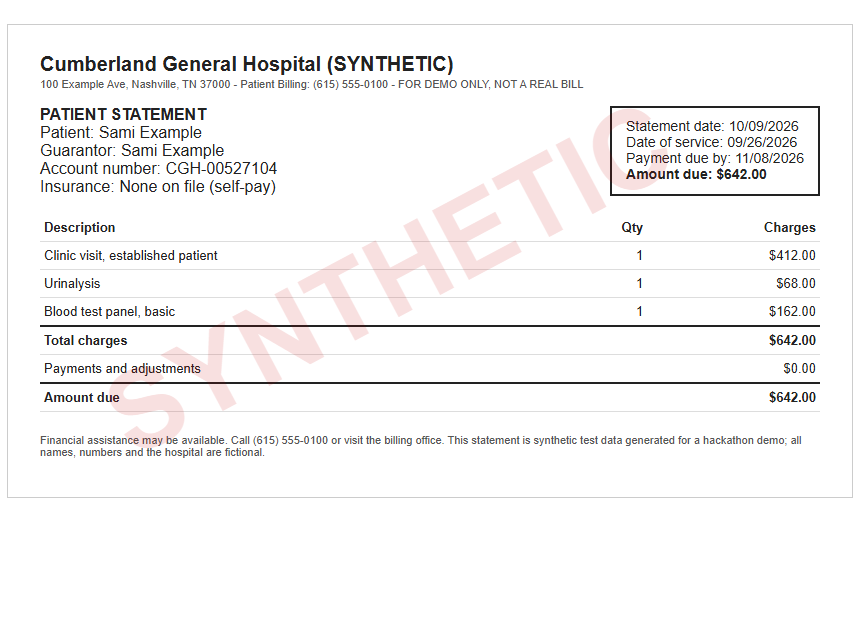
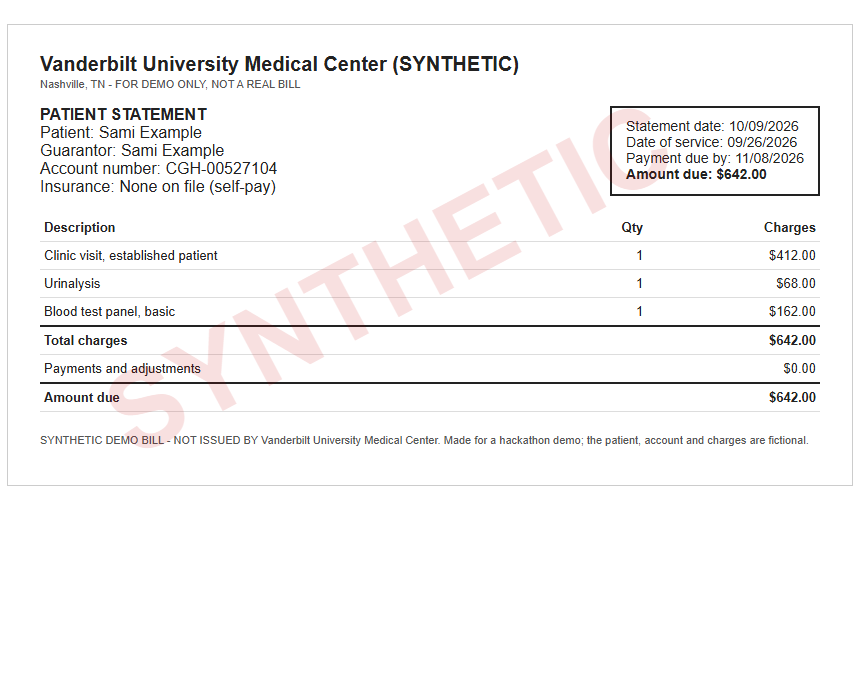
Real policies (plan v2 S3): synthetic bills 01-09 now name VUMC / Ascension Saint Thomas facilities with (SYNTHETIC), watermark and 'not issued by' footer; no address or phone; bill-02 QR -> ?hospital=vumc; PNGs and blur set re-rendered; demo bills VUMC

Changed region(s): [[0.0302, 0.0625, 0.9674, 0.7188]]

diff --git a/spikes/synthetic-bill/bill-02.html b/spikes/synthetic-bill/bill-02.html
@@ -21,8 +21,8 @@
 <body>
 <div class="page">
   <div class="wm">SYNTHETIC</div>
-  <h1>Cumberland General Hospital (SYNTHETIC)</h1>
-  <div class="small">100 Example Ave, Nashville, TN 37000 - Patient Billing: (615) 555-0100 - FOR DEMO ONLY, NOT A REAL BILL</div>
+  <h1>Vanderbilt University Medical Center (SYNTHETIC)</h1>
+  <div class="small">Nashville, TN - FOR DEMO ONLY, NOT A REAL BILL</div>
 
   <div class="row">
     <div>
@@ -52,13 +52,11 @@
 
   <div class="qr"><img id="qr" alt="QR code" width="120" height="120"><div class="small">Scan to check for financial assistance - SYNTHETIC demo</div></div>
 
-  <p class="small" style="margin-top:22px">Financial assistance may be available. Call (615) 555-0100 or visit the
-  billing office. This statement is synthetic test data generated for a hackathon demo; all names, numbers and
-  the hospital are fictional.</p>
+  <p class="small" style="margin-top:22px">SYNTHETIC DEMO BILL - NOT ISSUED BY Vanderbilt University Medical Center. Made for a hackathon demo; the patient, account and charges are fictional.</p>
 </div>
 <script src="../../app/static/vendor/qrcode-generator/qrcode.js"></script>
 <script>
-  var q = qrcode(0, 'M'); q.addData('http://207.211.181.174/?hospital=cumberland_synthetic'); q.make();
+  var q = qrcode(0, 'M'); q.addData('http://207.211.181.174/?hospital=vumc'); q.make();
   document.getElementById('qr').src = q.createDataURL(4, 2);
 </script>
 <script>

diff --git a/spikes/synthetic-bill/bill-05.html b/spikes/synthetic-bill/bill-05.html
@@ -20,8 +20,8 @@
 <body>
 <div class="page">
   <div class="wm">SYNTHETIC</div>
-  <h1>Cumberland General Hospital (SYNTHETIC)</h1>
-  <div class="small">100 Example Ave, Nashville, TN 37000 - Patient Billing: (615) 555-0100 - FOR DEMO ONLY, NOT A REAL BILL</div>
+  <h1>Vanderbilt University Medical Center (SYNTHETIC)</h1>
+  <div class="small">Nashville, TN - FOR DEMO ONLY, NOT A REAL BILL</div>
 
   <div class="row">
     <div>
@@ -49,9 +49,7 @@
     <tr class="total"><td>Amount due</td><td></td><td class="n">$1,206.00</td></tr>
   </table>
 
-  <p class="small" style="margin-top:22px">Financial assistance may be available. Call (615) 555-0100 or visit the
-  billing office. This statement is synthetic test data generated for a hackathon demo; all names, numbers and
-  the hospital are fictional.</p>
+  <p class="small" style="margin-top:22px">SYNTHETIC DEMO BILL - NOT ISSUED BY Vanderbilt University Medical Center. Made for a hackathon demo; the patient, account and charges are fictional.</p>
 </div>
 <script>
   var m = /blur=([0-9.]+)/.exec(location.hash);

diff --git a/spikes/synthetic-bill/bill-03.html b/spikes/synthetic-bill/bill-03.html
@@ -20,8 +20,8 @@
 <body>
 <div class="page">
   <div class="wm">SYNTHETIC</div>
-  <h1>Cumberland General Hospital (SYNTHETIC)</h1>
-  <div class="small">100 Example Ave, Nashville, TN 37000 - Patient Billing: (615) 555-0100 - FOR DEMO ONLY, NOT A REAL BILL</div>
+  <h1>Vanderbilt University Medical Center (SYNTHETIC)</h1>
+  <div class="small">Nashville, TN - FOR DEMO ONLY, NOT A REAL BILL</div>
 
   <div class="row">
     <div>
@@ -49,9 +49,7 @@
     <tr class="total"><td>Amount due</td><td></td><td class="n">$642.00</td></tr>
   </table>
 
-  <p class="small" style="margin-top:22px">Financial assistance may be available. Call (615) 555-0100 or visit the
-  billing office. This statement is synthetic test data generated for a hackathon demo; all names, numbers and
-  the hospital are fictional.</p>
+  <p class="small" style="margin-top:22px">SYNTHETIC DEMO BILL - NOT ISSUED BY Vanderbilt University Medical Center. Made for a hackathon demo; the patient, account and charges are fictional.</p>
 </div>
 <script>
   var m = /blur=([0-9.]+)/.exec(location.hash);

diff --git a/spikes/synthetic-bill/bill-04.html b/spikes/synthetic-bill/bill-04.html
@@ -20,8 +20,8 @@
 <body>
 <div class="page">
   <div class="wm">SYNTHETIC</div>
-  <h1>Cumberland General Hospital (SYNTHETIC)</h1>
-  <div class="small">100 Example Ave, Nashville, TN 37000 - Patient Billing: (615) 555-0100 - FOR DEMO ONLY, NOT A REAL BILL</div>
+  <h1>Vanderbilt Wilson County Hospital (SYNTHETIC)</h1>
+  <div class="small">Nashville, TN - FOR DEMO ONLY, NOT A REAL BILL</div>
 
   <div class="row">
     <div>
@@ -49,9 +49,7 @@
     <tr class="total"><td>Amount due</td><td></td><td class="n">$318.75</td></tr>
   </table>
 
-  <p class="small" style="margin-top:22px">Financial assistance may be available. Call (615) 555-0100 or visit the
-  billing office. This statement is synthetic test data generated for a hackathon demo; all names, numbers and
-  the hospital are fictional.</p>
+  <p class="small" style="margin-top:22px">SYNTHETIC DEMO BILL - NOT ISSUED BY Vanderbilt Wilson County Hospital. Made for a hackathon demo; the patient, account and charges are fictional.</p>
 </div>
 <script>
   var m = /blur=([0-9.]+)/.exec(location.hash);

diff --git a/spikes/synthetic-bill/bill-08.html b/spikes/synthetic-bill/bill-08.html
@@ -20,8 +20,8 @@
 <body>
 <div class="page">
   <div class="wm">SYNTHETIC</div>
-  <h1>Cumberland General Hospital (SYNTHETIC)</h1>
-  <div class="small">100 Example Ave, Nashville, TN 37000 - Patient Billing: (615) 555-0100 - FOR DEMO ONLY, NOT A REAL BILL</div>
+  <h1>Ascension Saint Thomas Rutherford (SYNTHETIC)</h1>
+  <div class="small">Nashville, TN - FOR DEMO ONLY, NOT A REAL BILL</div>
 
   <div class="row">
     <div>
@@ -49,9 +49,7 @@
     <tr class="total"><td>Amount due</td><td></td><td class="n">$349.00</td></tr>
   </table>
 
-  <p class="small" style="margin-top:22px">Financial assistance may be available. Call (615) 555-0100 or visit the
-  billing office. This statement is synthetic test data generated for a hackathon demo; all names, numbers and
-  the hospital are fictional.</p>
+  <p class="small" style="margin-top:22px">SYNTHETIC DEMO BILL - NOT ISSUED BY Ascension Saint Thomas Rutherford. Made for a hackathon demo; the patient, account and charges are fictional.</p>
 </div>
 <script>
   var m = /blur=([0-9.]+)/.exec(location.hash);

diff --git a/spikes/synthetic-bill/bill-06.html b/spikes/synthetic-bill/bill-06.html
@@ -20,8 +20,8 @@
 <body>
 <div class="page">
   <div class="wm">SYNTHETIC</div>
-  <h1>Cumberland General Hospital (SYNTHETIC)</h1>
-  <div class="small">100 Example Ave, Nashville, TN 37000 - Patient Billing: (615) 555-0100 - FOR DEMO ONLY, NOT A REAL BILL</div>
+  <h1>Ascension Saint Thomas Midtown (SYNTHETIC)</h1>
+  <div class="small">Nashville, TN - FOR DEMO ONLY, NOT A REAL BILL</div>
 
   <div class="row">
     <div>
@@ -49,9 +49,7 @@
     <tr class="total"><td>Amount due</td><td></td><td class="n">$791.50</td></tr>
   </table>
 
-  <p class="small" style="margin-top:22px">Financial assistance may be available. Call (615) 555-0100 or visit the
-  billing office. This statement is synthetic test data generated for a hackathon demo; all names, numbers and
-  the hospital are fictional.</p>
+  <p class="small" style="margin-top:22px">SYNTHETIC DEMO BILL - NOT ISSUED BY Ascension Saint Thomas Midtown. Made for a hackathon demo; the patient, account and charges are fictional.</p>
 </div>
 <script>
   var m = /blur=([0-9.]+)/.exec(location.hash);

diff --git a/spikes/synthetic-bill/bill-07.html b/spikes/synthetic-bill/bill-07.html
@@ -20,8 +20,8 @@
 <body>
 <div class="page">
   <div class="wm">SYNTHETIC</div>
-  <h1>Cumberland General Hospital (SYNTHETIC)</h1>
-  <div class="small">100 Example Ave, Nashville, TN 37000 - Patient Billing: (615) 555-0100 - FOR DEMO ONLY, NOT A REAL BILL</div>
+  <h1>Ascension Saint Thomas West (SYNTHETIC)</h1>
+  <div class="small">Nashville, TN - FOR DEMO ONLY, NOT A REAL BILL</div>
 
   <div class="row">
     <div>
@@ -51,9 +51,7 @@
     <tr class="total"><td>Amount due</td><td></td><td class="n">$5,191.00</td></tr>
   </table>
 
-  <p class="small" style="margin-top:22px">Financial assistance may be available. Call (615) 555-0100 or visit the
-  billing office. This statement is synthetic test data generated for a hackathon demo; all names, numbers and
-  the hospital are fictional.</p>
+  <p class="small" style="margin-top:22px">SYNTHETIC DEMO BILL - NOT ISSUED BY Ascension Saint Thomas West. Made for a hackathon demo; the patient, account and charges are fictional.</p>
 </div>
 <script>
   var m = /blur=([0-9.]+)/.exec(location.hash);

diff --git a/spikes/synthetic-bill/bill-09.html b/spikes/synthetic-bill/bill-09.html
@@ -20,8 +20,8 @@
 <body>
 <div class="page">
   <div class="wm">SYNTHETIC</div>
-  <h1>Cumberland General Hospital (SYNTHETIC)</h1>
-  <div class="small">100 Example Ave, Nashville, TN 37000 - Patient Billing: (615) 555-0100 - FOR DEMO ONLY, NOT A REAL BILL</div>
+  <h1>Ascension Saint Thomas West (SYNTHETIC)</h1>
+  <div class="small">Nashville, TN - FOR DEMO ONLY, NOT A REAL BILL</div>
 
   <div class="row">
     <div>
@@ -50,9 +50,7 @@
     <tr class="total"><td>Amount due</td><td></td><td class="n">$4,569.00</td></tr>
   </table>
 
-  <p class="small" style="margin-top:22px">Financial assistance may be available. Call (615) 555-0100 or visit the
-  billing office. This statement is synthetic test data generated for a hackathon demo; all names, numbers and
-  the hospital are fictional.</p>
+  <p class="small" style="margin-top:22px">SYNTHETIC DEMO BILL - NOT ISSUED BY Ascension Saint Thomas West. Made for a hackathon demo; the patient, account and charges are fictional.</p>
 </div>
 <script>
   var m = /blur=([0-9.]+)/.exec(location.hash);

diff --git a/spikes/synthetic-bill/bill-01.html b/spikes/synthetic-bill/bill-01.html
@@ -20,8 +20,8 @@
 <body>
 <div class="page">
   <div class="wm">SYNTHETIC</div>
-  <h1>Cumberland General Hospital (SYNTHETIC)</h1>
-  <div class="small">100 Example Ave, Nashville, TN 37000 - Patient Billing: (615) 555-0100 - FOR DEMO ONLY, NOT A REAL BILL</div>
+  <h1>Vanderbilt University Medical Center (SYNTHETIC)</h1>
+  <div class="small">Nashville, TN - FOR DEMO ONLY, NOT A REAL BILL</div>
 
   <div class="row">
     <div>
@@ -49,9 +49,7 @@
     <tr class="total"><td></td><td>Amount due</td><td></td><td class="n">$4,812.40</td></tr>
   </table>
 
-  <p class="small" style="margin-top:22px">Financial assistance may be available. Call (615) 555-0100 or visit the
-  billing office. This statement is synthetic test data generated for a hackathon demo; all names, numbers and
-  the hospital are fictional.</p>
+  <p class="small" style="margin-top:22px">SYNTHETIC DEMO BILL - NOT ISSUED BY Vanderbilt University Medical Center. Made for a hackathon demo; the patient, account and charges are fictional.</p>
 </div>
 </body>
 </html>
